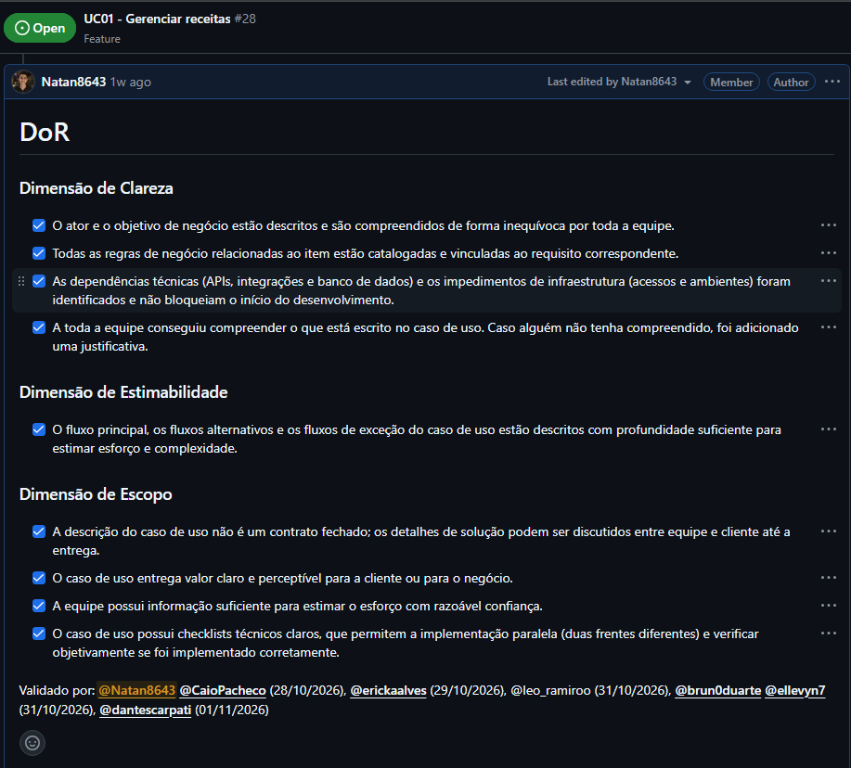
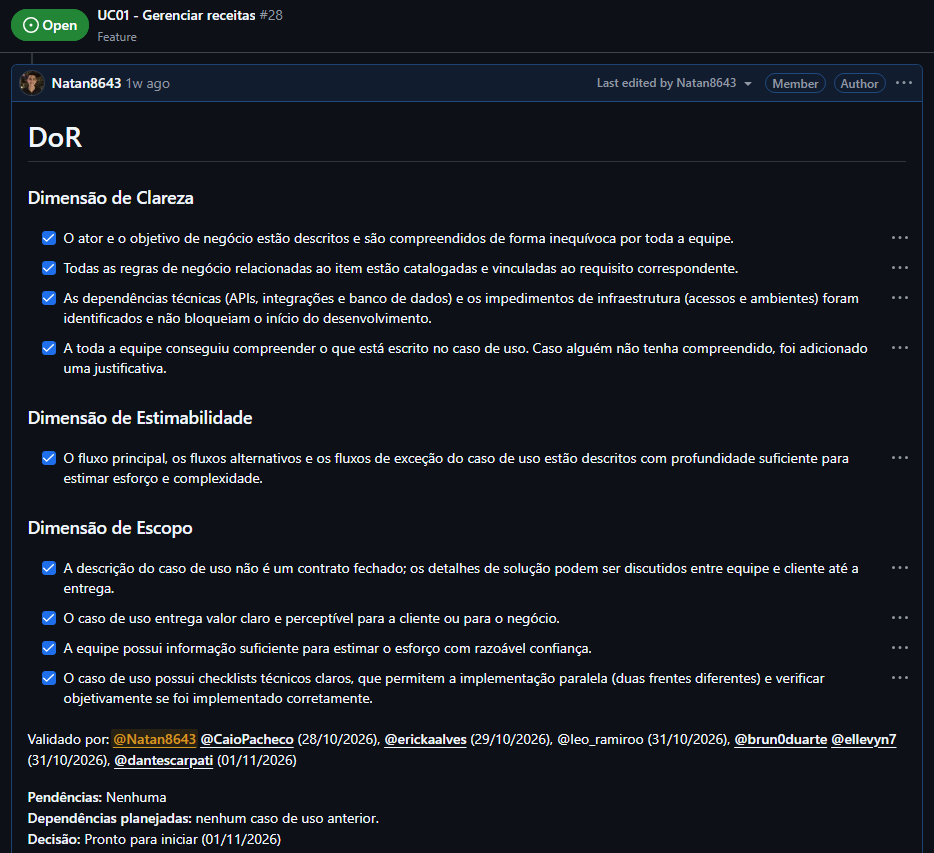
docs: adiciona tópico de dependencias planejadas

Changed region(s): [[0.0, 0.0, 1.0, 1.0]]

diff --git a/unicash/docs/dor_dod.md b/unicash/docs/dor_dod.md
@@ -28,6 +28,10 @@ Para que um caso de uso seja movido para **Pronto para Desenvolvimento**, todos 
 - [ ] A equipe possui informação suficiente para estimar o esforço com razoável confiança.
 - [ ] O caso de uso possui checklists técnicos claros, que permitem a implementação paralela (duas frentes diferentes) e verificar objetivamente se foi implementado corretamente.
 
+### Tratamento de dependências planejadas
+
+Quando um caso de uso depende de outro que ainda não foi concluído, de um requisito que ainda não tem caso de uso ou de um acesso ou ambiente ainda não disponível, a dependência é registrada no próprio caso de uso, com a forma de tratá-la, em vez de ser dispensada com uma justificativa genérica. O checklist técnico é o instrumento que facilita o desenvolvimento nesses casos: o contrato definido nele (modelo de dados, funções de cálculo compartilhadas, formato das mensagens e eventos) é aprovado no início do timebox, e as duas frentes e os casos de uso dependentes trabalham em paralelo sobre esse mesmo contrato, usando dados de teste ou versões simuladas até que a implementação real fique pronta. O que só pode ser verificado depois que a dependência for concluída fica explícito no caso de uso, como integração posterior, e nos testes marcados do checklist, e não impede que o item seja considerado pronto para desenvolvimento. Dependências sem solução definida são registradas como pendência, com a decisão correspondente.
+
 ## DoD (Definition of Done) — Filtro de Saída
 
 O **Nível 1** deve ser preenchido pelos responsáveis técnicos antes de solicitar o merge ou review. O **Nível 2 e Nível 3** só devem ser preenchidos depois de validados com a cliente.
